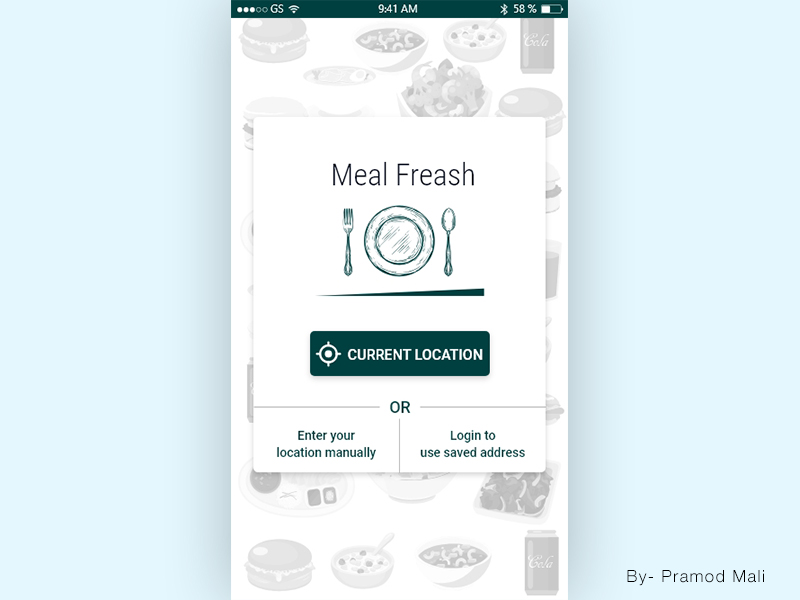
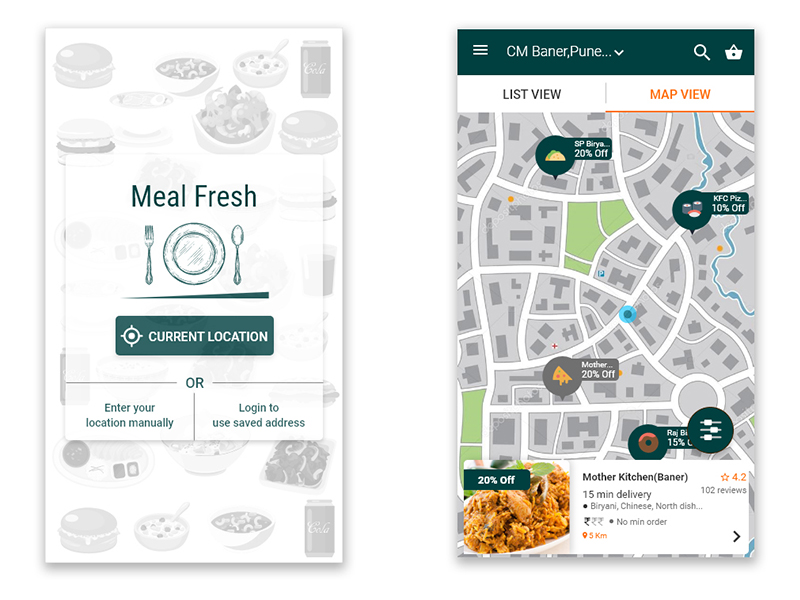
New updates
New updates

diff --git a/index.html b/index.html
@@ -226,11 +226,6 @@
               </a>
             </div>
             <div class="col-lg-4 col-md-6 portfolio-thumbnail all mockups mobile-app photography">
-              <a class="popup-img" href="images/portfolio/4.jpg">
-                <img src="images/portfolio/4.jpg" alt="img">
-              </a>
-            </div>
-            <div class="col-lg-4 col-md-6 portfolio-thumbnail all mockups mobile-app photography">
               <a class="popup-img" href="images/portfolio/Pending-notification.jpg">
                 <img src="images/portfolio/Pending-notification.jpg" alt="img">
               </a>
@@ -269,7 +264,21 @@
     <div class="container">
       <div class="journal-block">
         <div class="row">
-
+           
+            <div class="col-lg-4 col-md-6">
+                <div class="journal-info">
+    
+                  <a target="_blank" href="https://xd.adobe.com/view/0a0b24c7-d0d4-4c10-79ec-f281dc5a6d2d-7c3a/?fullscreen"><img src="images/Meal-Fresh-3.jpg" class="img-responsive" alt="img"></a>
+    
+                  <div class="journal-txt">
+    
+                    <h4><a target="_blank" href="https://xd.adobe.com/view/0a0b24c7-d0d4-4c10-79ec-f281dc5a6d2d-7c3a/?fullscreen">Meal Fresh App</a></h4>
+                    <p class="separator">  </p>
+    
+                  </div>
+    
+                </div>
+              </div>
           <div class="col-lg-4 col-md-6">
             <div class="journal-info">
 
